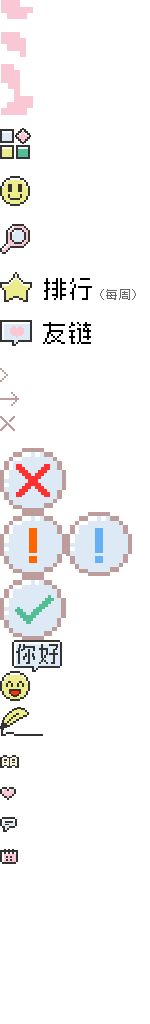
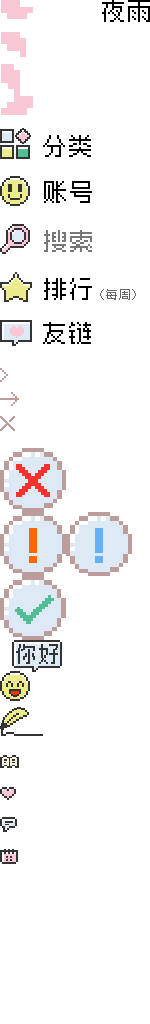
UI 调整（字体渲染问题）

Changed region(s): [[0.2933, 0.125, 0.6133, 0.25], [0.8533, 0.0, 1.0, 0.0312], [0.6933, 0.0, 0.8267, 0.0312]]

diff --git a/src/layout/Side.vue b/src/layout/Side.vue
@@ -12,7 +12,7 @@
 						/>
 					</a>
 				</div>
-				<h4 class="name zpix24">夜雨</h4>
+				<h4 class="name icon"></h4>
 				<p class="href">
 					<router-link to="/">主页</router-link>
 					<a href="https://old.imyeyu.net" target="_blank">返回旧版</a>
@@ -22,7 +22,7 @@
 			</div>
 		</div>
 		<div class="item user">
-			<h2 class="title icon zpix24">账号</h2>
+			<h2 class="title icon"></h2>
 			<div class="content">
 				<div class="input-btn">
 					<input id="username" type="text" placeholder="UID 或用户名" spellcheck="false" autocomplete="off" />
@@ -40,7 +40,7 @@
 			</div>
 		</div>
 		<div class="item clazz">
-			<h2 class="title icon zpix24">分类</h2>
+			<h2 class="title icon"></h2>
 			<ul class="first" @click="$store.state.dialogBus.warning('暂时不可用')">
 				<li onclick="Router.to('/test')">HTML / CSS</li>
 				<li onclick="Router.to('/article')">Javascript</li>
@@ -63,12 +63,12 @@
 			</ul>
 		</div>
 		<div class="item search">
-			<div class="title icon">
+			<div :class="`title${searchKey ? ' inputing' : ''}`">
 				<input
 					class="zpix24"
-					placeholder="搜索"
 					spellcheck="false"
 					autofocus
+					v-model="searchKey"
 					@keyup.enter="$store.state.dialogBus.warning('暂时不可用')"
 				/>
 			</div>
@@ -108,6 +108,13 @@ export default defineComponent({
 			default: 'Title',
 		},
 	},
+	data(): {
+		searchKey: string;
+		} {
+		return {
+			searchKey: ''
+		}
+	},
 	mounted() {
 		this.$store.commit('refreshArticleHot');
 	}
@@ -126,7 +133,7 @@ export default defineComponent({
 		height: 32px;
 		padding: 3px;
 		position: relative;
-		text-indent: 46px;
+		text-indent: 42px;
 		border-bottom: 2px solid #A67D7B;
 	}
 
@@ -140,6 +147,13 @@ export default defineComponent({
 		border: 2px solid #FBC7D4;
 		margin: 24px auto 2px auto;
 		background: #FFF;
+	}
+
+	.name {
+		width: 48px;
+		height: 24px;
+		margin: 8px auto 4px auto;
+		background-position: -102px 0;
 	}
 
 	.me .href {
@@ -250,6 +264,7 @@ export default defineComponent({
 		height: 26px;
 		position: relative;
 		font-size: 14px;
+		font-family: "Consolas";
 		line-height: 26px;
 		text-indent: 6px;
 	}
@@ -333,8 +348,21 @@ export default defineComponent({
 		visibility: visible;
 	}
 
-	.search .title {
+	.search .title::before {
+		content: "";
+		top: 0;
+		left: 0;
+		width: 100px;
+		height: 36px;
+		overflow: hidden;
+		position: absolute;
+		background: var(--random-icon);
+		pointer-events: none;
 		background-position: 6px -220px;
+	}
+
+	.search .title.inputing::before {
+		width: 36px;
 	}
 
 	.search input {

diff --git a/src/assets/css/public.css b/src/assets/css/public.css
@@ -1,5 +1,6 @@
 :root {
 	--random-icon: url(../img/icons.png?v=0) no-repeat;
+	--public-font: "PingHei", "PingFang SC", "Helvetica Neue", "Work Sans", "Hiragino Sans GB", "Microsoft YaHei", "SimSun", "sans-serif";
 	--default: url("../img/default.png"), default;
 	--pointer: url("../img/link.png"), pointer;
 	--text: url("../img/input.png"), text;
@@ -20,7 +21,7 @@ input, textarea {
 	resize: none;
 	outline: none;
 	display: block;
-	font-family: "Consolas", "PingFang SC";
+	font-family: var(--public-font);
 }
 
 body, div, span, iframe, p, pre, a, code, img, b, u, i, dl, dt, dd, ol, ul, li, form, label, table, tr, th, td {
@@ -45,22 +46,8 @@ body {
 	display: flex;
 	overflow-y: scroll;
 	word-break: break-all;
-	font-family: "Consolas", "PingFang SC";
+	font-family: var(--public-font);
 	justify-content: center;
-}
-
-body::before {
-	content: "";
-	right: 0;
-	width: 100%;
-	height: 100vh;
-	bottom: 0;
-	z-index: -1;
-	position: fixed;
-	background: url('../img/bg.png');
-	background-size: 1920px 1152px;
-	background-position: right bottom;
-	background-attachment: fixed;
 }
 
 ol, ul {
@@ -203,8 +190,8 @@ img {
 	font-size: 12px !important;
 	line-height: 1.5;
 	font-weight: normal;
-	font-family: "Zpix", "sans-serif";
-	font-feature-settings: 'tnum';
+	font-family: "Zpix", "PingHei", "PingFang SC", "Helvetica Neue", "Work Sans", "Hiragino Sans GB", "Microsoft YaHei", "SimSun", "sans-serif";
+	font-feature-settings: "tnum";
 	-webkit-font-smoothing: none;
 }
 
@@ -212,8 +199,8 @@ img {
 	font-size: 24px !important;
 	line-height: 1.5;
 	font-weight: normal;
-	font-family: "Zpix", "sans-serif";
-	font-feature-settings: 'tnum';
+	font-family: "Zpix", "PingHei", "PingFang SC", "Helvetica Neue", "Work Sans", "Hiragino Sans GB", "Microsoft YaHei", "SimSun", "sans-serif";
+	font-feature-settings: "tnum";
 	-webkit-font-smoothing: none;
 }
 

diff --git a/src/App.vue b/src/App.vue
@@ -92,15 +92,19 @@ export default defineComponent({
 		scroll-behavior: smooth;
 	}
 
-	/* position: fixed 和 z-index: -1 同时使用会导致字体渲染模糊 */
+	/* position: fixed 和 z-index: -1 同时使用会导致字体渲染模糊（不只是 Zpix） */
 	#leafs {
 		width: 100%;
 		height: 100vh;
 		z-index: -1;
 		position: absolute; 
 		overflow: hidden;
+		background: url('~@/assets/img/bg.png');
+		background-size: 1920px 1152px;
+		background-position: right bottom;
+		background-attachment: fixed;
 	}
-	
+
 	#leafs .leaf {
 		width: 32px;
 		height: 32px;

diff --git a/src/views/Article/List.vue b/src/views/Article/List.vue
@@ -126,6 +126,7 @@ export default defineComponent({
 		padding: 4px 0 4px 6px;
 		font-size: 16px;
 		background: linear-gradient(to right, #CDDEF0 50%, transparent 100%);
+		letter-spacing: 2px;
 	}
 
 	.content .title a {
